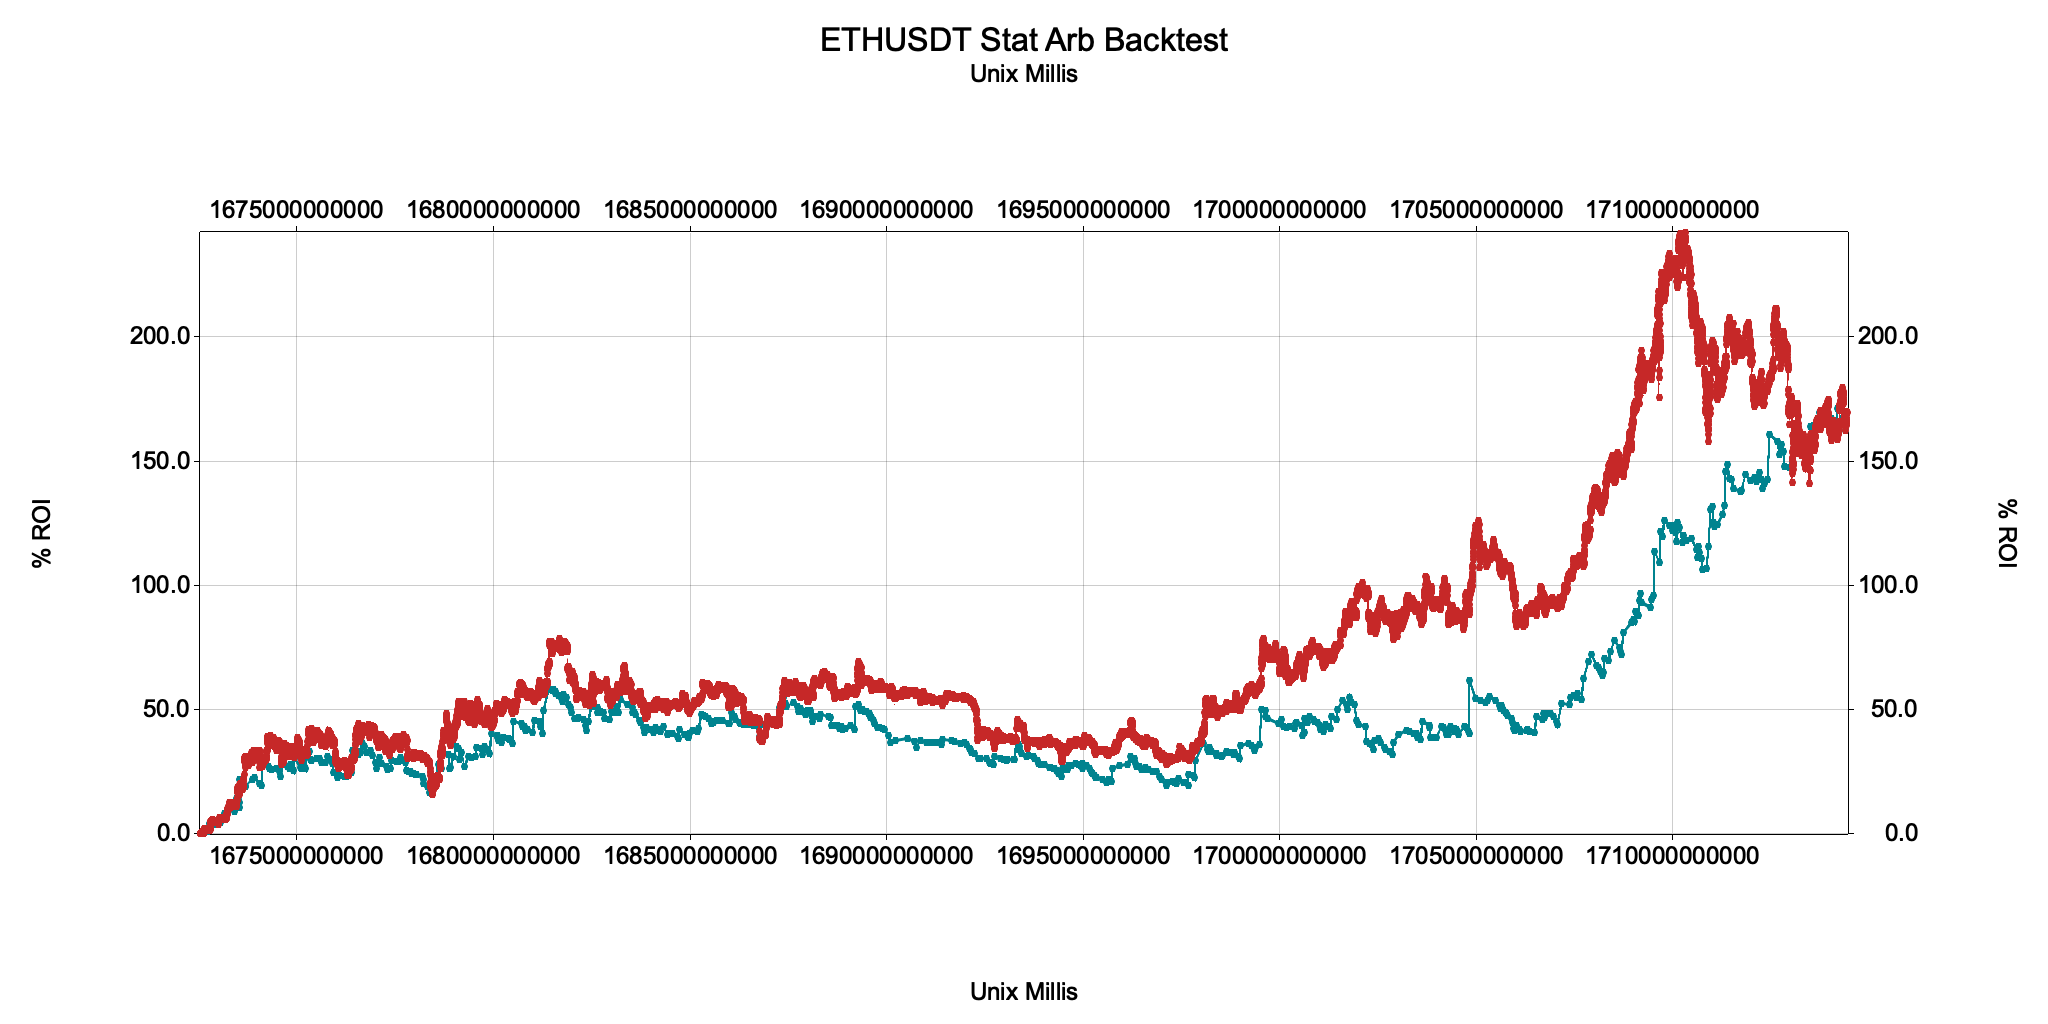
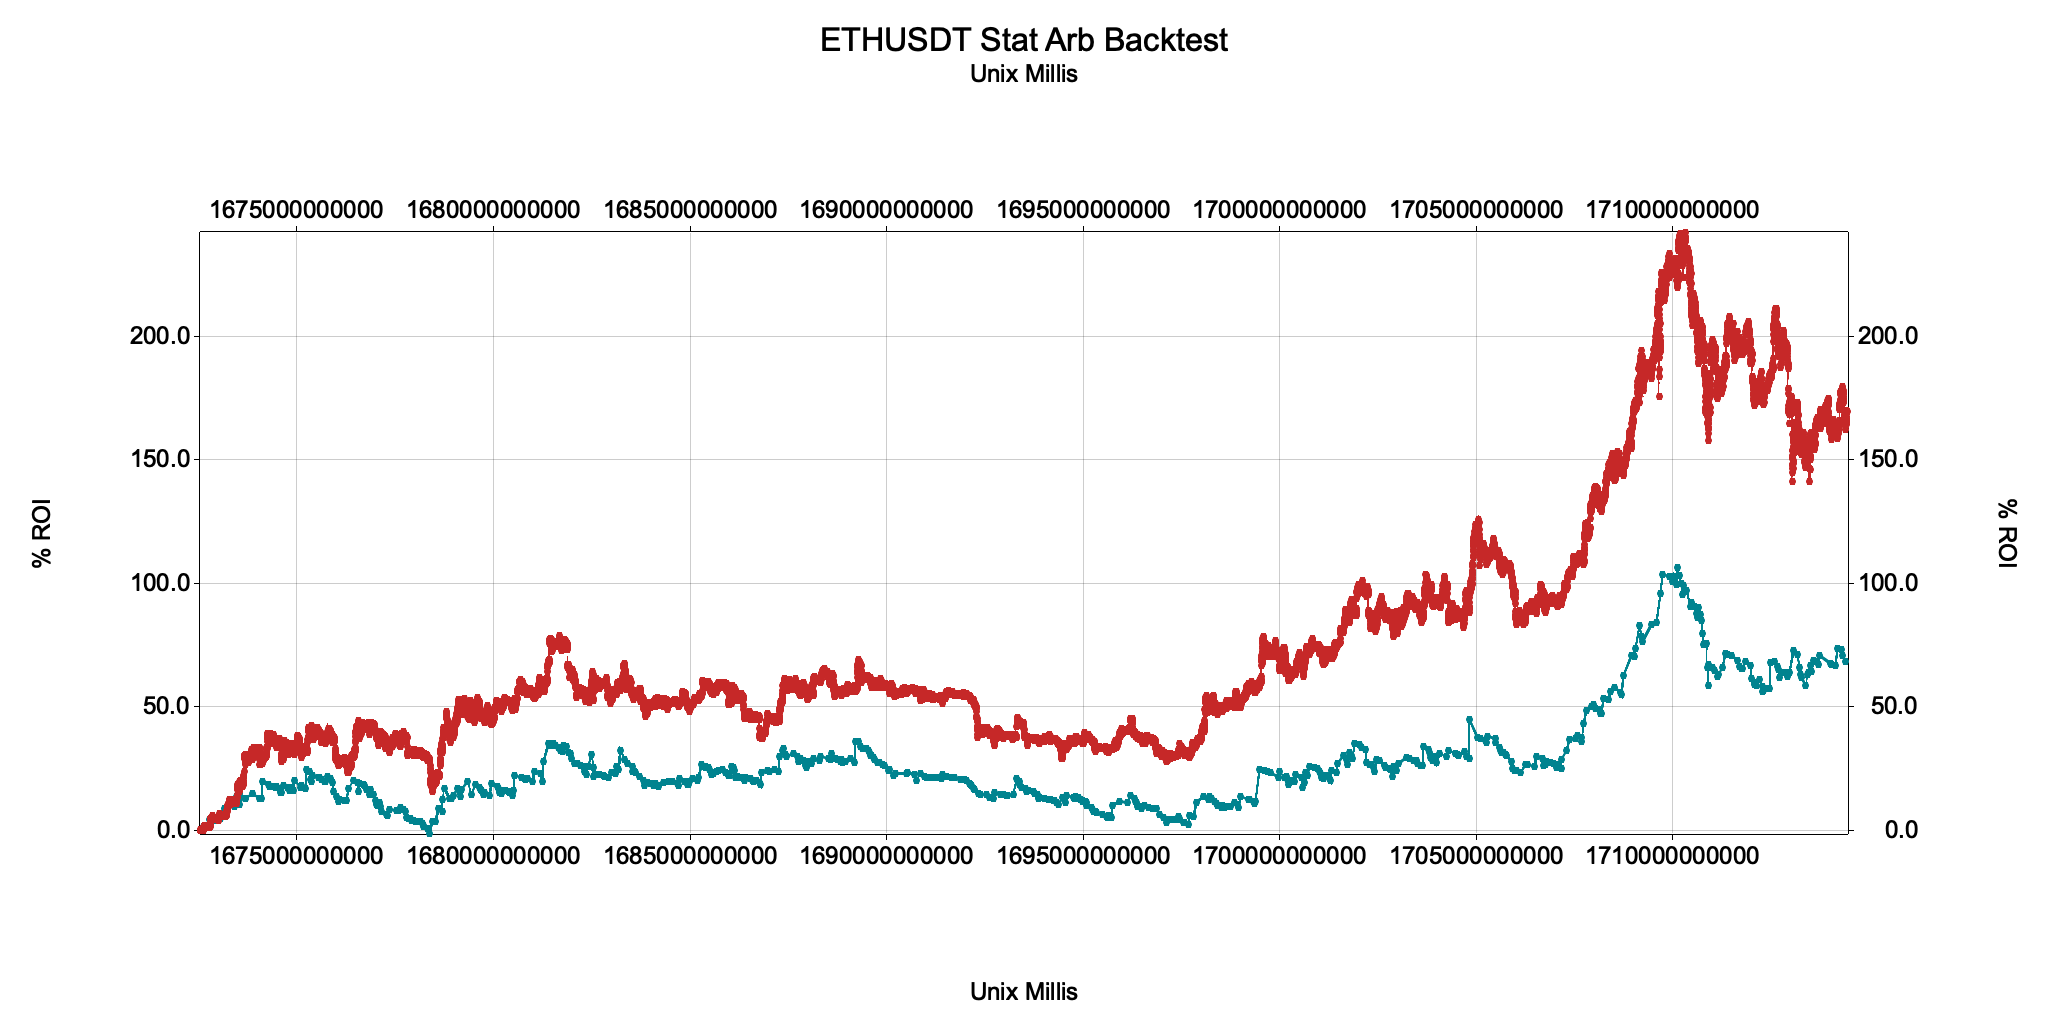
why does this work for stat arb

diff --git a/playbook/src/backtest.rs b/playbook/src/backtest.rs
@@ -198,8 +198,15 @@ impl<T, S: Strategy<T>> Backtest<T, S> {
       for i in 0..length {
         // Access the i-th element of each vector to simulate getting price update
         // for every ticker at roughly the same time
-        for (ticker, candles) in candles.iter() {
+        let entries = candles.iter().map(|(ticker, candles)| {
+          (ticker.clone(), candles.clone())
+        }).collect::<Vec<(String, Vec<Candle>)>>();
+        for (ticker, candles) in entries.iter() {
           let candle = candles[i];
+          
+          if i == 0 {
+            println!("first: {}", ticker);
+          }
 
           // check if stop loss is hit
           if let (Some(entry), Some(stop_loss_pct)) = (active_trades.get(ticker).unwrap(), self.strategy.stop_loss_pct()) {
@@ -341,13 +348,12 @@ impl<T, S: Strategy<T>> Backtest<T, S> {
             match signal {
               Signal::EnterLong(info) => {
                 // only place if no active trade to prevent pyramiding
-                // todo: allow pyramiding to enable hedging
                 if active_trades.get(&info.ticker).unwrap().is_none() {
                   let trade = Trade {
                     ticker: info.ticker.clone(),
                     date: info.date,
                     side: Order::EnterLong,
-                    quantity: 0.0, // quantity doesn't matter, since exit trade recomputes it
+                    quantity: 0.0, // quantity doesn't matter, since exit trade computes it
                     price: info.price,
                   };
                   active_trades.insert(info.ticker.clone(), Some(trade.clone()));
@@ -359,7 +365,7 @@ impl<T, S: Strategy<T>> Backtest<T, S> {
                     let pct_pnl = (info.price - entry.price) / entry.price * 100.0;
                     let position_size = match self.bet {
                       Bet::Static => static_capital,
-                      Bet::Percent(pct) => *cum_capital.get(ticker).unwrap() * pct / 100.0
+                      Bet::Percent(pct) => *cum_capital.get(&info.ticker).unwrap() * pct / 100.0
                     };
 
                     let quantity = position_size / entry.price;
@@ -374,7 +380,7 @@ impl<T, S: Strategy<T>> Backtest<T, S> {
 
                     // fee on trade entry capital
                     let entry_fee = position_size.abs() * (self.fee / 100.0);
-                    let cum_capital = cum_capital.get_mut(ticker).unwrap();
+                    let cum_capital = cum_capital.get_mut(&info.ticker).unwrap();
                     *cum_capital -= entry_fee;
                     // fee on profit made
                     let mut quote_pnl = pct_pnl / 100.0 * position_size;
@@ -382,18 +388,18 @@ impl<T, S: Strategy<T>> Backtest<T, S> {
                     quote_pnl -= profit_fee;
 
                     *cum_capital += quote_pnl;
-                    let quote = quote.get_mut(ticker).unwrap();
+                    let quote = quote.get_mut(&info.ticker).unwrap();
                     *quote += quote_pnl;
 
-                    cum_quote.get_mut(ticker).unwrap().push(Data {
+                    cum_quote.get_mut(&info.ticker).unwrap().push(Data {
                       x: entry.date.to_unix_ms(),
                       y: trunc!(*quote, 2)
                     });
-                    cum_pct.get_mut(ticker).unwrap().push(Data {
+                    cum_pct.get_mut(&info.ticker).unwrap().push(Data {
                       x: entry.date.to_unix_ms(),
                       y: trunc!(*cum_capital / initial_capital * 100.0 - 100.0, 2)
                     });
-                    pct_per_trade.get_mut(ticker).unwrap().push(Data {
+                    pct_per_trade.get_mut(&info.ticker).unwrap().push(Data {
                       x: entry.date.to_unix_ms(),
                       y: trunc!(pct_pnl, 2)
                     });
@@ -427,16 +433,16 @@ impl<T, S: Strategy<T>> Backtest<T, S> {
               },
               Signal::ExitShort(info) => {
                 if let Some(entry) = active_trades.get(&info.ticker).unwrap() {
-                  if entry.side == Order::EnterShort && self.short_selling { 
+                  if entry.side == Order::EnterShort && self.short_selling {
                     let pct_pnl = (info.price - entry.price) / entry.price * -1.0 * 100.0;
                     let position_size = match self.bet {
                       Bet::Static => static_capital,
-                      Bet::Percent(pct) => *cum_capital.get(ticker).unwrap() * pct / 100.0
+                      Bet::Percent(pct) => *cum_capital.get(&info.ticker).unwrap() * pct / 100.0
                     };
 
                     let quantity = position_size / entry.price;
                     let updated_entry = Trade {
-                      ticker: ticker.clone(),
+                      ticker: info.ticker.clone(),
                       date: entry.date,
                       side: entry.side,
                       quantity,
@@ -446,7 +452,7 @@ impl<T, S: Strategy<T>> Backtest<T, S> {
 
                     // fee on trade entry capital
                     let entry_fee = position_size.abs() * (self.fee / 100.0);
-                    let cum_capital = cum_capital.get_mut(ticker).unwrap();
+                    let cum_capital = cum_capital.get_mut(&info.ticker).unwrap();
                     *cum_capital -= entry_fee;
                     // fee on profit made
                     let mut quote_pnl = pct_pnl / 100.0 * position_size;
@@ -454,18 +460,18 @@ impl<T, S: Strategy<T>> Backtest<T, S> {
                     quote_pnl -= profit_fee;
 
                     *cum_capital += quote_pnl;
-                    let quote = quote.get_mut(ticker).unwrap();
+                    let quote = quote.get_mut(&info.ticker).unwrap();
                     *quote += quote_pnl;
 
-                    cum_quote.get_mut(ticker).unwrap().push(Data {
+                    cum_quote.get_mut(&info.ticker).unwrap().push(Data {
                       x: entry.date.to_unix_ms(),
                       y: trunc!(*quote, 2)
                     });
-                    cum_pct.get_mut(ticker).unwrap().push(Data {
+                    cum_pct.get_mut(&info.ticker).unwrap().push(Data {
                       x: entry.date.to_unix_ms(),
                       y: trunc!(*cum_capital / initial_capital * 100.0 - 100.0, 2)
                     });
-                    pct_per_trade.get_mut(ticker).unwrap().push(Data {
+                    pct_per_trade.get_mut(&info.ticker).unwrap().push(Data {
                       x: entry.date.to_unix_ms(),
                       y: trunc!(pct_pnl, 2)
                     });

diff --git a/playbook/src/strategies/stat_arb.rs b/playbook/src/strategies/stat_arb.rs
@@ -61,17 +61,21 @@ impl StatArb {
   pub fn signal(&mut self, ticker: Option<String>) -> anyhow::Result<Vec<Signal>> {
     match ticker {
       None => Ok(vec![]),
-      Some(ticker) => {
+      Some(_ticker) => {
         if self.x.vec.len() < self.x.capacity || self.y.vec.len() < self.y.capacity {
           warn!("Insufficient candles to generate signal");
           return Ok(vec![]);
         }
-
-        // compare lagged spread
         let x_0 = self.x.vec[0].clone();
-        let x = Dataframe::normalize_series::<Data<i64, f64>>(&self.x.vec())?;
-
         let y_0 = self.y.vec[0].clone();
+
+        // todo: will this work live?
+        if x_0.x() != y_0.x() {
+          return Ok(vec![]);
+        }
+
+        // compare spread
+        let x = Dataframe::normalize_series::<Data<i64, f64>>(&self.x.vec())?;
         let y = Dataframe::normalize_series::<Data<i64, f64>>(&self.y.vec())?;
 
         let spread: Vec<f64> = spread_dynamic(&x.y(), &y.y()).map_err(
@@ -92,8 +96,13 @@ impl StatArb {
 
         let enter_long = z_0.y() < -self.zscore_threshold;
         let exit_long = z_0.y() > 0.0 && z_1.y() < 0.0;
+        // let enter_long = z_0.y() < -self.zscore_threshold;
+        // let exit_long = z_0.y() > self.zscore_threshold;
+        
         let enter_short = z_0.y() > self.zscore_threshold;
         let exit_short = z_0.y() < 0.0 && z_1.y() > 0.0;
+        // let enter_short = exit_long;
+        // let exit_short = enter_long;
 
         let x_info = SignalInfo {
           price: x_0.y(),
@@ -110,41 +119,21 @@ impl StatArb {
 
         // process exits before any new entries
         if exit_long {
-          if ticker == self.x.id {
-            // signals.push(Signal::EnterLong(x_info.clone()))
-            signals.push(Signal::ExitLong(x_info.clone()))
-          } else if ticker == self.y.id {
-            // todo: do not touch this
-            signals.push(Signal::EnterLong(y_info.clone()))
-          }
+          signals.push(Signal::EnterLong(x_info.clone()));
+          signals.push(Signal::EnterLong(y_info.clone()))
         }
         if exit_short {
-          if ticker == self.x.id {
-            // signals.push(Signal::EnterShort(x_info.clone()))
-            signals.push(Signal::ExitShort(x_info.clone()))
-          } else if ticker == self.y.id {
-            // todo: do not touch this
-            signals.push(Signal::ExitShort(y_info.clone()))
-          }
+          signals.push(Signal::EnterShort(x_info.clone()));
+          signals.push(Signal::ExitShort(y_info.clone()))
         }
 
         if enter_long {
-          if ticker == self.x.id {
-            // signals.push(Signal::ExitLong(x_info.clone()))
-            signals.push(Signal::EnterLong(x_info.clone()))
-          } else if ticker == self.y.id {
-            // todo: do not touch this
-            signals.push(Signal::ExitLong(y_info.clone()))
-          }
+          signals.push(Signal::ExitLong(x_info.clone()));
+          signals.push(Signal::ExitLong(y_info.clone()))
         }
         if enter_short {
-          if ticker == self.x.id {
-            // signals.push(Signal::ExitShort(x_info))
-            signals.push(Signal::EnterShort(x_info))
-          } else if ticker == self.y.id {
-            // todo: do not touch this
-            signals.push(Signal::EnterShort(y_info))
-          }
+          signals.push(Signal::ExitShort(x_info));
+          signals.push(Signal::EnterShort(y_info))
         }
         Ok(signals)
       }
@@ -211,11 +200,11 @@ async fn btc_eth_30m_stat_arb() -> anyhow::Result<()> {
   let window = 10;
   let capacity = window + 6;
   let threshold = 2.0;
-  let stop_loss = 10.0;
+  let stop_loss = None; // Some(10.0);
   let fee = 0.02;
   let bet = Bet::Percent(100.0);
   let leverage = 1;
-  let short_selling = true;
+  let short_selling = false;
 
   let x_ticker = "BTCUSDT".to_string();
   let y_ticker = "ETHUSDT".to_string();
@@ -236,7 +225,7 @@ async fn btc_eth_30m_stat_arb() -> anyhow::Result<()> {
   )?;
   println!("Spread Hurst Exponent: {}", trunc!(hurst(spread.clone()), 2));
 
-  let strat = StatArb::new(capacity, window, threshold, x_ticker.clone(), y_ticker.clone(), Some(stop_loss));
+  let strat = StatArb::new(capacity, window, threshold, x_ticker.clone(), y_ticker.clone(), stop_loss);
   let mut backtest = Backtest::new(strat, 1000.0, fee, bet, leverage, short_selling);
   // Append to backtest data
   backtest.candles.insert(x_ticker.clone(), x_candles.clone());

diff --git a/dreamrunner/src/engine.rs b/dreamrunner/src/engine.rs
@@ -474,7 +474,7 @@ impl<T, S: Strategy<T>> Engine<T, S> {
   //         } else if entry.status == OrderStatus::Filled {
   //           // entry is filled, place stop loss
   //           info!("Order filled: {:#?}", entry);
-  //           self.check_stop_loss(&all_orders).await?;
+  //           self.manually_check_stop_loss(&all_orders).await?;
   //         }
   //       }
   //       OrderState::Pending(order) => {
@@ -496,7 +496,7 @@ impl<T, S: Strategy<T>> Engine<T, S> {
   // /// If entry is filled and stop loss is pending, then place the stop loss order.
   // /// If stop loss is active, check if it has filled. 
   // /// If stop loss is stale then reset it. If filled then reset the active order.
-  // async fn check_stop_loss(&mut self, all_orders: &[HistoricalOrder]) -> DreamrunnerResult<()> {
+  // async fn manually_check_stop_loss(&mut self, all_orders: &[HistoricalOrder]) -> DreamrunnerResult<()> {
   //   let copy = self.active_order.clone();
   //   if let Some(stop_loss_order) = &copy.stop_loss {
   //     let actual_stop_loss = all_orders

diff --git a/time_series/src/trade.rs b/time_series/src/trade.rs
@@ -190,7 +190,7 @@ impl Summary {
   pub fn max_drawdown(&self, ticker: &str) -> f64 {
     let mut max_dd = 0.0;
     let mut peak = self.cum_pct.get(ticker).unwrap().data().first().unwrap().y;
-  
+
     for point in self.cum_pct.get(ticker).unwrap().data().iter() {
       if point.y > peak {
         peak = point.y;
